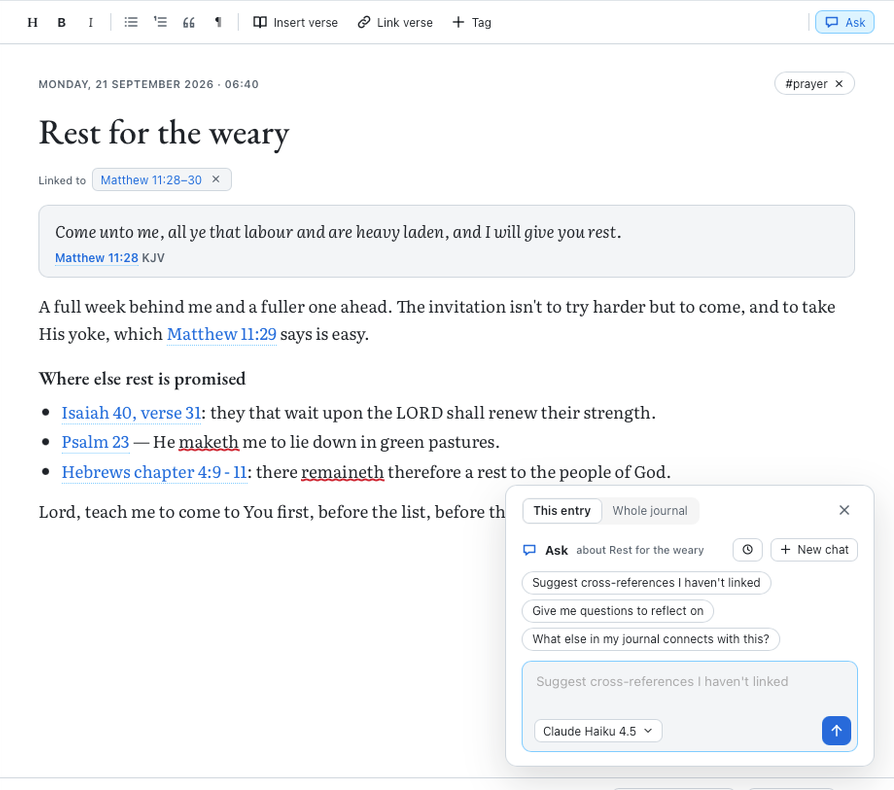
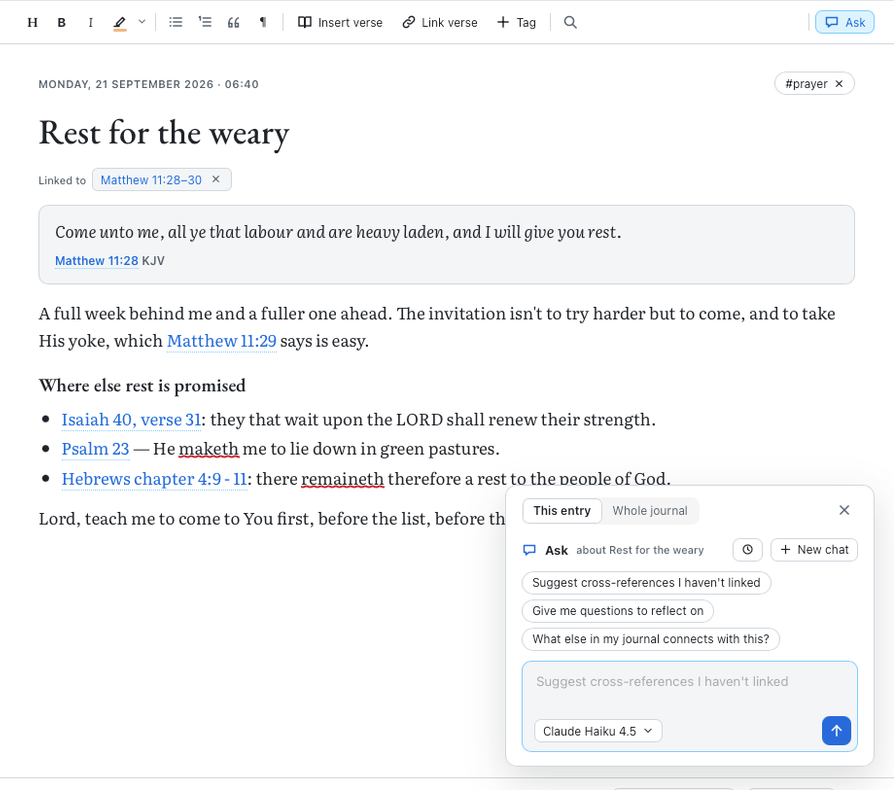
Docs and journal screenshots for highlighting

Changed region(s): [[0.0302, 0.3038, 0.9362, 0.6684], [0.1208, 0.0, 0.5436, 0.0608]]

diff --git a/docs/features.md b/docs/features.md
@@ -116,9 +116,11 @@ Dated entries with headings, bold, italic, lists, quotes and verses inserted fro
 (⌘N starts one). Each entry is linked to the verses it's about and shows beside them in Read
 (Settings › Journal › Show notes beside verses). Entries are Markdown files, one per month, in
 `~/Documents/Two-edged Sword/` (change it in Settings, e.g. to a folder in your Obsidian vault).
-The toolbar inserts a verse, links one, and adds a tag. ⌘F finds in the entry and ⌥⌘F
-replaces (⌘G for the next match; ⌘Z undoes a replacement). An Ask answer can be added to
-the journal in one click.
+The toolbar highlights in the reader's six colours (the button keeps the colour last picked;
+saved as `==text==` for yellow, which Obsidian shows too, and `<mark class="hl-green">` for the
+others), inserts a verse, links one, and adds a tag. ⌘F finds in the entry and ⌥⌘F replaces (⌘G
+for the next match; ⌘Z undoes a replacement). An Ask answer can be added to the journal in one
+click.
 
 <picture><source media="(prefers-color-scheme: dark)" srcset="images/journal-ask-dark.png"><img alt="Ask in the journal, about the open entry or the whole journal" src="images/journal-ask-light.png"></picture>
 
